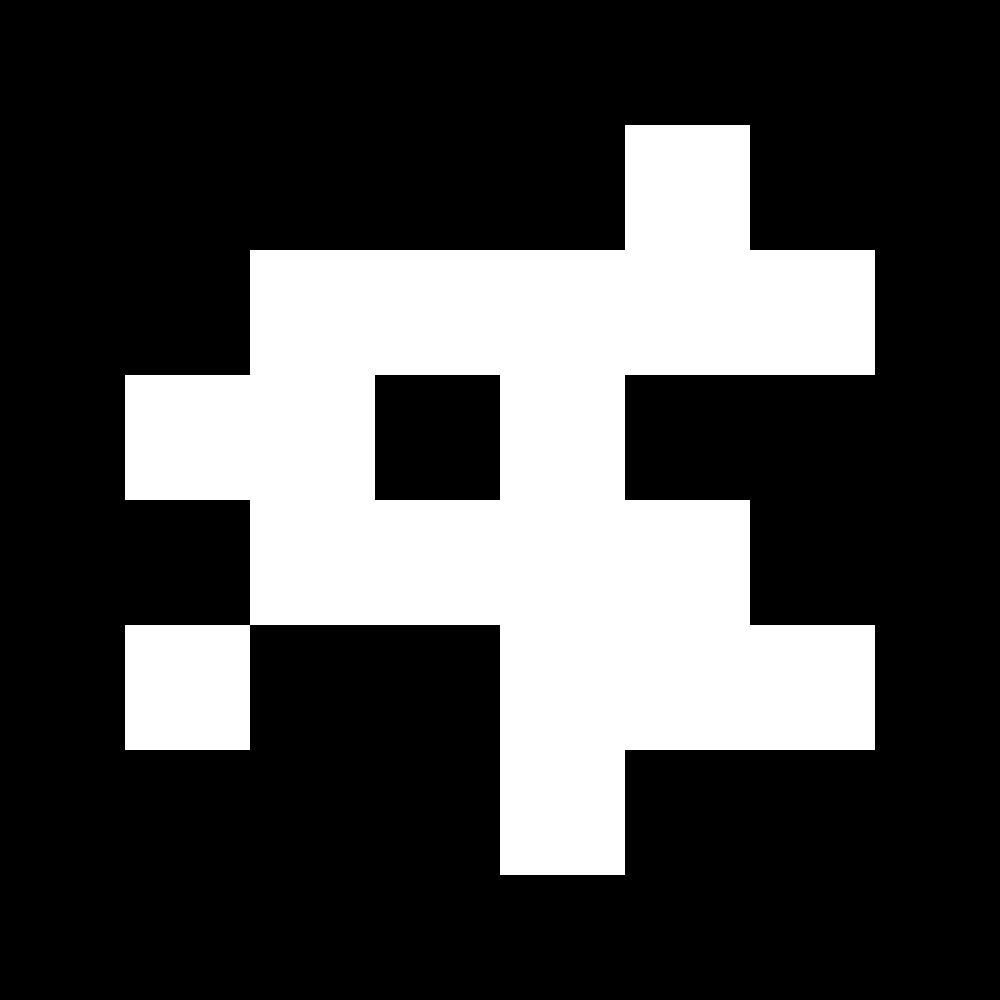
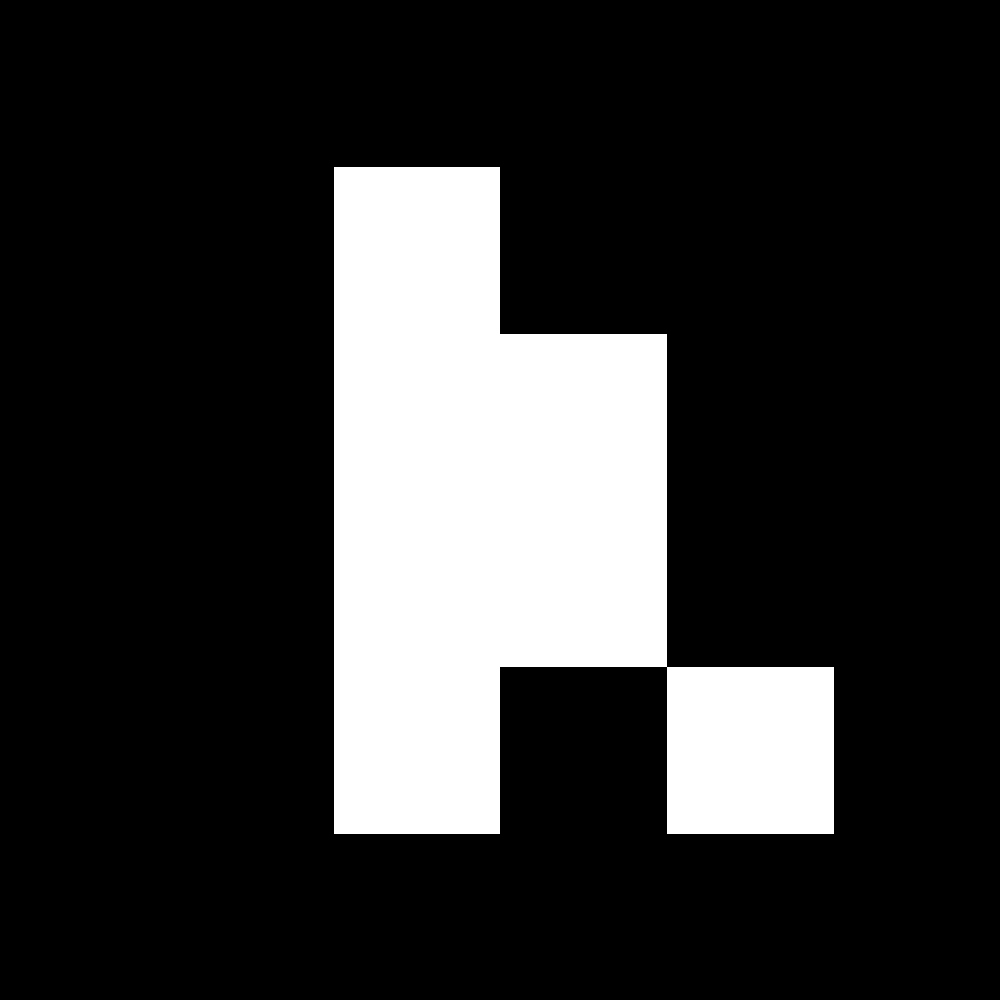
atualizando o dicionario para 4x4

Changed region(s): [[0.124, 0.124, 0.899, 0.899], [0.372, 0.372, 0.527, 0.527]]

diff --git a/cria-marcadores.py b/cria-marcadores.py
@@ -37,7 +37,7 @@ output_dir = 'marcadores/'
 marker_size = 1000
 
 # Criação dos marcadores ArUco e salvamento em arquivo
-aruco_dict = cv2.aruco.Dictionary_get(cv2.aruco.DICT_6X6_250)
+aruco_dict = cv2.aruco.Dictionary_get(cv2.aruco.DICT_4X4_100)
 parameters = cv2.aruco.DetectorParameters_create()
 
 for marker_id, info in marcadores_dict.items():
